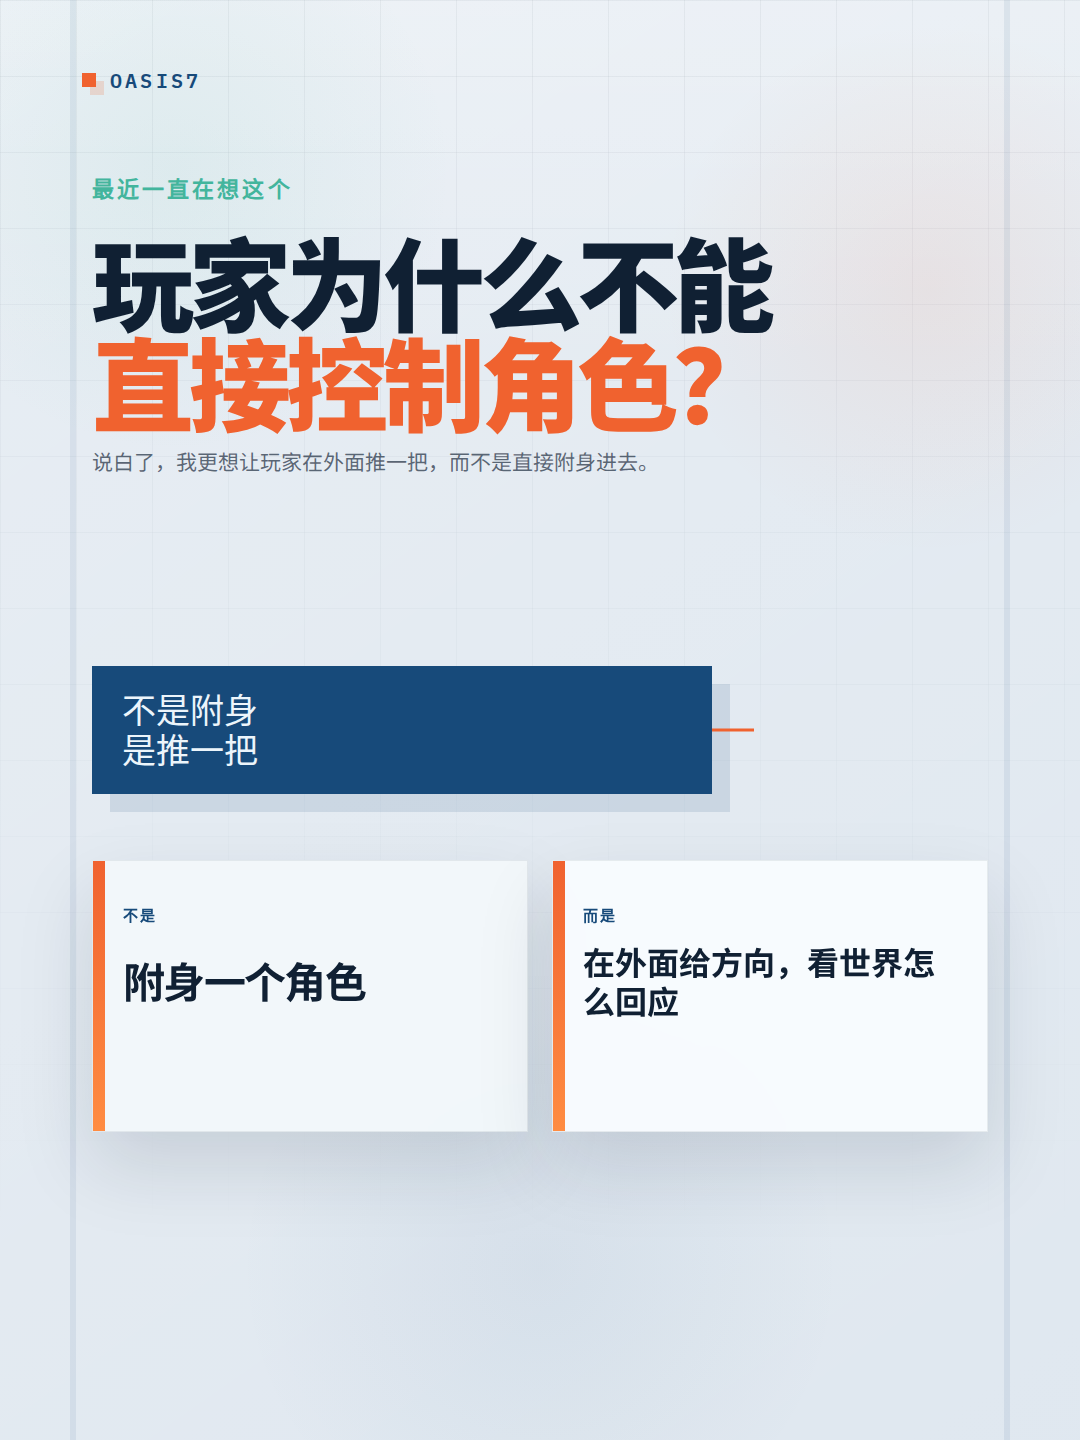
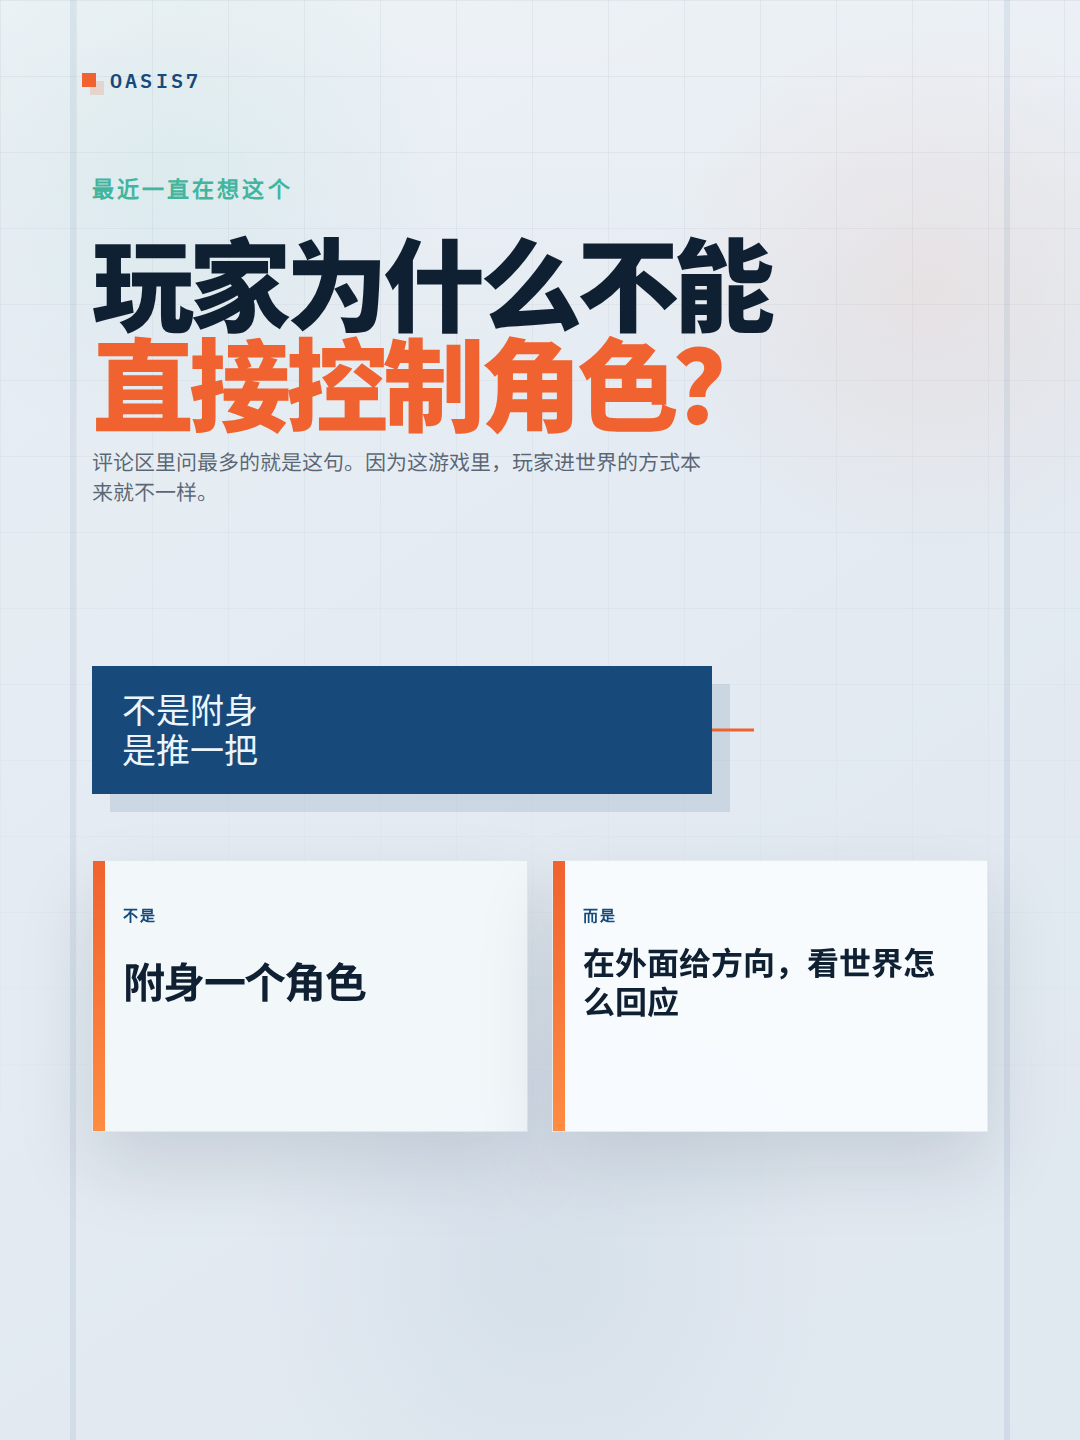
Refine Xiaohongshu player boundary copy

Changed region(s): [[0.0917, 0.3125, 0.6417, 0.3438]]

diff --git a/site/social/xiaohongshu-player-boundary.html b/site/social/xiaohongshu-player-boundary.html
@@ -554,7 +554,7 @@
           phase: "",
           title: '玩家为什么不能<br /><span class="accent">直接控制角色？</span>',
           subtitle:
-            "说白了，我更想让玩家在外面推一把，而不是直接附身进去。",
+            "评论区里问最多的就是这句。因为这游戏里，玩家进世界的方式本来就不一样。",
           rows: [
             {
               label: "不是",
@@ -573,16 +573,16 @@
           kind: "editorial",
           phase: "",
           eyebrow: "很多人都会问",
-          title: '你不是去操控一个人<br /><span class="accent">而是去影响一个世界</span>',
+          title: '你不是去操控一个人<br /><span class="accent">而是去推一个世界</span>',
           paragraphs: [
             "我不想让玩家一直盯着某个人跑来跑去，点移动、点采集、点执行。",
             "我更想让玩家站在外面给方向，然后看这个世界自己接下去。",
           ],
           focusTitle: "我更在意的",
           focusBody:
-            "不是你有没有手操到每一步，而是你推的那一下，会不会真的把世界带偏。",
+            "不是你有没有手操到每一步，而是你推那一下，世界会不会真被带偏。",
           quoteTitle: "说白了",
-          quoteBody: "不是手操一个人，是在外面推一个世界。",
+          quoteBody: "不是控一个人，是推一个世界。",
         },
         {
           kind: "boundary",
@@ -627,7 +627,7 @@
           title: '如果是你<br /><span class="accent">你会怎么选？</span>',
           question: "直接控一个角色\n还是在外面给方向？",
           note:
-            "我更想知道，大家更想要手操感，还是更想要影响一个世界的感觉。",
+            "我更想知道，你更想要手操感，还是更想要把世界推偏的感觉。",
         },
       ];
 

diff --git a/doc/readme/governance/readme-xiaohongshu-player-boundary-post-pack-2026-03-25.md b/doc/readme/governance/readme-xiaohongshu-player-boundary-post-pack-2026-03-25.md
@@ -35,18 +35,18 @@
 
 ## 正文建议
 ```text
-前一条发完以后，
-很多人都在问：
-那玩家到底怎么进这个世界？
+上一条发完以后，
+评论区里问得最多的就是一句：
+玩家到底怎么进这个世界？
 
-答案其实很简单：
+答案很简单：
 你不是去附身一个角色。
 
 我不想让玩家
 一直盯着某个人跑来跑去，
 点移动、点采集、点执行。
 
-我更想做的是另一种关系。
+我更想做另一种关系。
 你站在外面，
 给方向，
 给目标，
@@ -60,14 +60,14 @@
 改走向，
 看它最后会长成什么样。
 
-说白了，
-我更想让玩家影响一个世界，
+说到底，
+我更想让玩家去影响一个世界，
 而不是手操一个人。
 
-我更想看的也不是
-“你按得有多快”，
+我更在意的也不是
+“你按得快不快”，
 而是你推的那一下，
-会不会真的把这个世界带偏。
+会不会真把世界带偏。
 
 如果是你，
 你会更想直接控一个角色，
@@ -93,7 +93,7 @@
 一个角色
 
 你是去影响
-一个会自己运转的世界
+一个自己会动的世界
 ```
 
 ### 第 3 页 / 玩家位置
@@ -165,12 +165,12 @@
 
 ## 标签建议
 ```text
-#独立开发
+#独立游戏
 #游戏开发
 #游戏设计
 #玩法设计
 #世界模拟
-#Agent
+#独立开发
 ```
 
 ## 发布备注
@@ -183,6 +183,7 @@
 - 这一版已经压到 5 页，优先测试短节奏，不要再把被砍掉的解释层加回去。
 - 如果还要继续压字，先压第 2 页和第 4 页，不要动第 3 页的边界图页；那一页是整组里最需要保留的信息点。
 - 标题里优先保留“玩家 / 角色 / 控制”这几个词，首段前 50 字里要尽快出现“玩家怎么进这个世界”，这样搜索和停留都更稳。
+- 如果还要再平台化一点，优先保留“评论区里问最多的一句”“你不是去附身一个角色”“直接控一个角色还是在外面给方向”这三处，不要再改回设计说明腔。
 
 ## 后续衔接建议
 1. 如果评论区在问“那玩家具体怎么给方向”，下一篇可以拆“玩家能做哪些高层决策”。

diff --git a/doc/devlog/2026-03-26.md b/doc/devlog/2026-03-26.md
@@ -408,3 +408,15 @@
   - `rg -n "玩家为什么不能直接控制角色|你不是去附身一个角色|你不是去操控一个人|定目标|给提示|直接控一个角色" doc/readme/governance/readme-xiaohongshu-player-boundary-post-pack-2026-03-25.md`
 - 遗留事项：
   - 这一轮主要改的是平台表达，不动第四篇的整体视觉骨架；如果还要继续抠，优先看第 2 页右侧说明框是否还能再短一点。
+
+## 12:09:32 CST / liveops_community
+- 完成内容：
+  - 按 `content-creation + humanizer-zh + xiaohongshu-note-analyzer` 再整体过了一遍第四篇，把封面首屏改成更像评论区高频问题的钩子，把第 2 页主标题和右侧说明框再压短一轮，减少“设计说明感”。
+  - 第四篇正文也同步微调，保留“玩家 / 角色 / 控制”这些搜索词，但把语气往更像真人发帖的方向推，比如“评论区里问得最多的一句”“我更在意的也不是你按得快不快”。
+  - 重新导出第四篇 5 张 PNG，保证当前图文和素材包一致。
+- 执行验证：
+  - `agent-browser open http://127.0.0.1:8765/site/social/xiaohongshu-player-boundary.html?slide=1`
+  - `agent-browser open http://127.0.0.1:8765/site/social/xiaohongshu-player-boundary.html?slide=2`
+  - `agent-browser open http://127.0.0.1:8765/site/social/xiaohongshu-player-boundary.html?slide=5`
+- 遗留事项：
+  - 这版已经基本到位；如果还要继续抠，优先只动封面副文，不要再动标题和第 5 页问题句。
